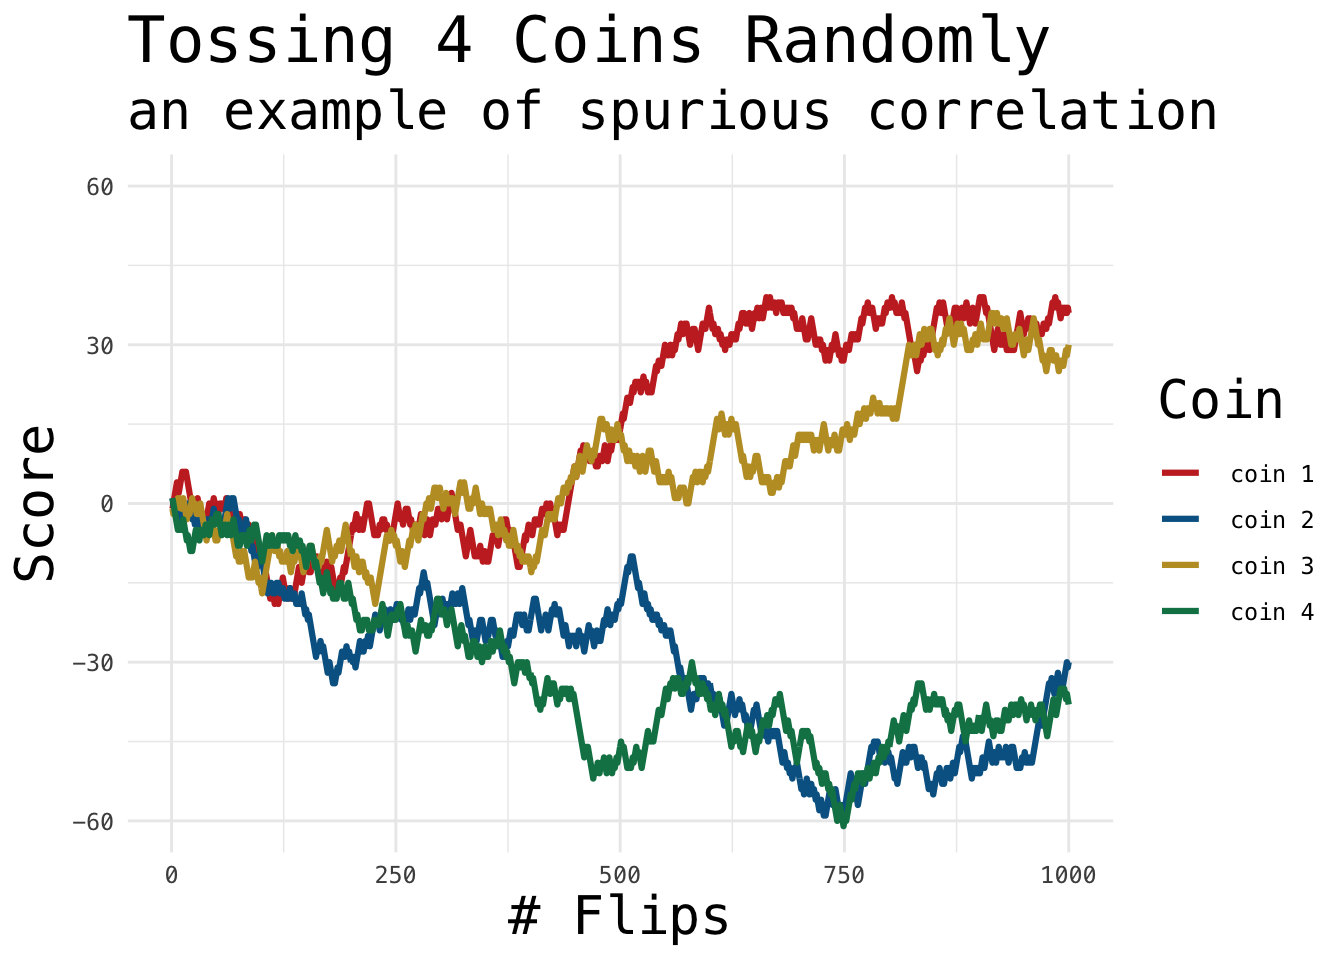
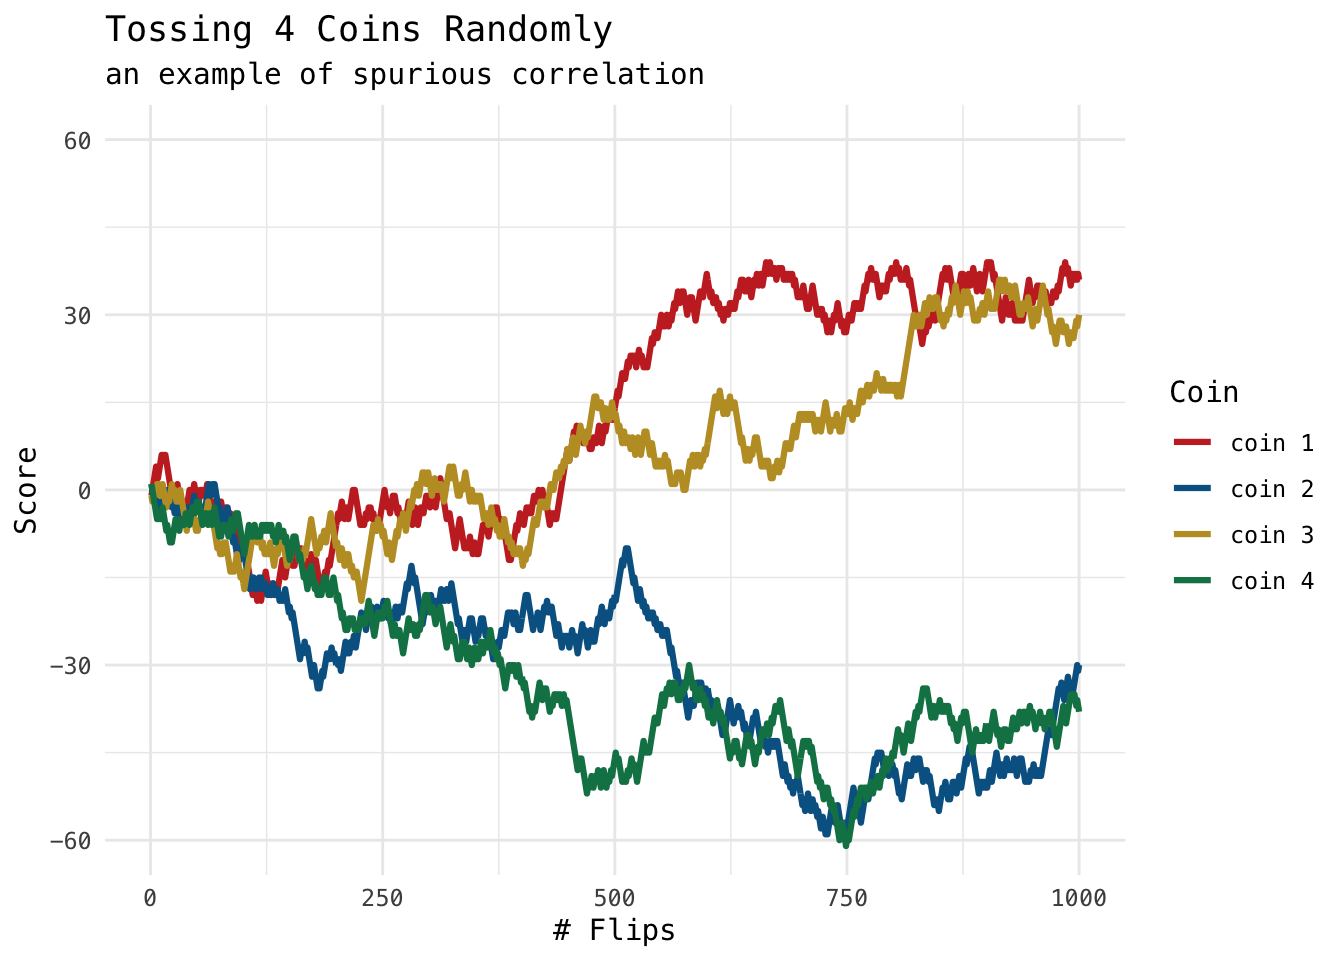
Update aes

diff --git a/content/post/2020-06-27-spurious-correlaton-a-simple-demonstration.html b/content/post/2020-06-27-spurious-correlaton-a-simple-demonstration.html
@@ -43,7 +43,6 @@ df %&gt;%
     coord_cartesian(ylim = c(-60, 60)) +
     scale_color_wsj() +
     theme_minimal(base_family = &quot;Menlo&quot;) +
-    theme(title = element_text(size = 20)) +
     labs(x = &quot;# Flips&quot;, y = &quot;Score&quot;, col = &quot;Coin&quot;, 
          title = &quot;Tossing 4 Coins Randomly&quot;,
          subtitle = &quot;an example of spurious correlation&quot;)</code></pre>
